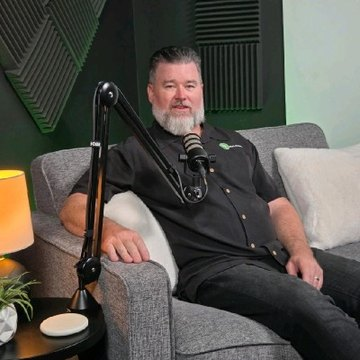
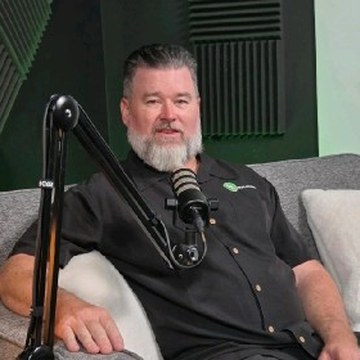
Add launch night speaker Eliot Grime and announcement card

diff --git a/index.html b/index.html
@@ -286,6 +286,14 @@ form button:disabled{background:var(--teal);cursor:default}
   .ticket{animation:none}
   .season li{transition:none}
 }
+
+.speaker{display:grid;grid-template-columns:132px 1fr;gap:26px;align-items:center;margin-top:clamp(40px,6vw,70px);padding-top:clamp(32px,4vw,44px);border-top:1px solid var(--line)}
+.speaker .shot{width:132px;height:132px;border-radius:16px;object-fit:cover;display:block;border:1px solid var(--line)}
+.sp-label{font-family:'Poppins';font-size:11px;font-weight:600;letter-spacing:.2em;text-transform:uppercase;color:var(--sun)}
+.speaker h3{font-family:'Poppins';font-size:clamp(23px,2.6vw,30px);font-weight:700;letter-spacing:-.02em;margin-top:8px}
+.sp-co{font-size:15px;color:var(--ash);margin-top:7px}
+.sp-bio{font-size:15px;line-height:1.6;color:var(--ash-2);margin-top:12px;max-width:62ch}
+@media(max-width:620px){.speaker{grid-template-columns:1fr;gap:18px}.speaker .shot{width:108px;height:108px}}
 </style>
 </head>
 <body>
@@ -375,6 +383,16 @@ form button:disabled{background:var(--teal);cursor:default}
           <span style="font-family:'Poppins';font-size:11px;font-weight:600;letter-spacing:.2em;text-transform:uppercase;color:var(--sun)">Launch night sponsor</span><br>
           <a class="text-link" href="https://securedinsurancegrp.com/" target="_blank" rel="noopener">Secured Insurance Group</a> &mdash; auto, home, life and commercial insurance for Central Florida, from Lake Mary.
         </p>
+      </div>
+    </div>
+
+    <div class="speaker">
+      <img class="shot" src="eliot-grime.jpg" alt="Eliot Grime of VE Builders" width="360" height="360" loading="lazy">
+      <div>
+        <div class="sp-label">Launch night speaker</div>
+        <h3>Eliot Grime</h3>
+        <p class="sp-co"><a class="text-link" href="https://www.vebuildersllc.com/" target="_blank" rel="noopener">VE Builders LLC</a> &middot; Orlando general contractor &middot; CBC 1259820</p>
+        <p class="sp-bio">Custom remodels, additions, tenant build-outs and turn-key flips across East Orlando, Winter Park, Lake Nona and the Seminole County suburbs. Topic announced soon.</p>
       </div>
     </div>
   </div>
